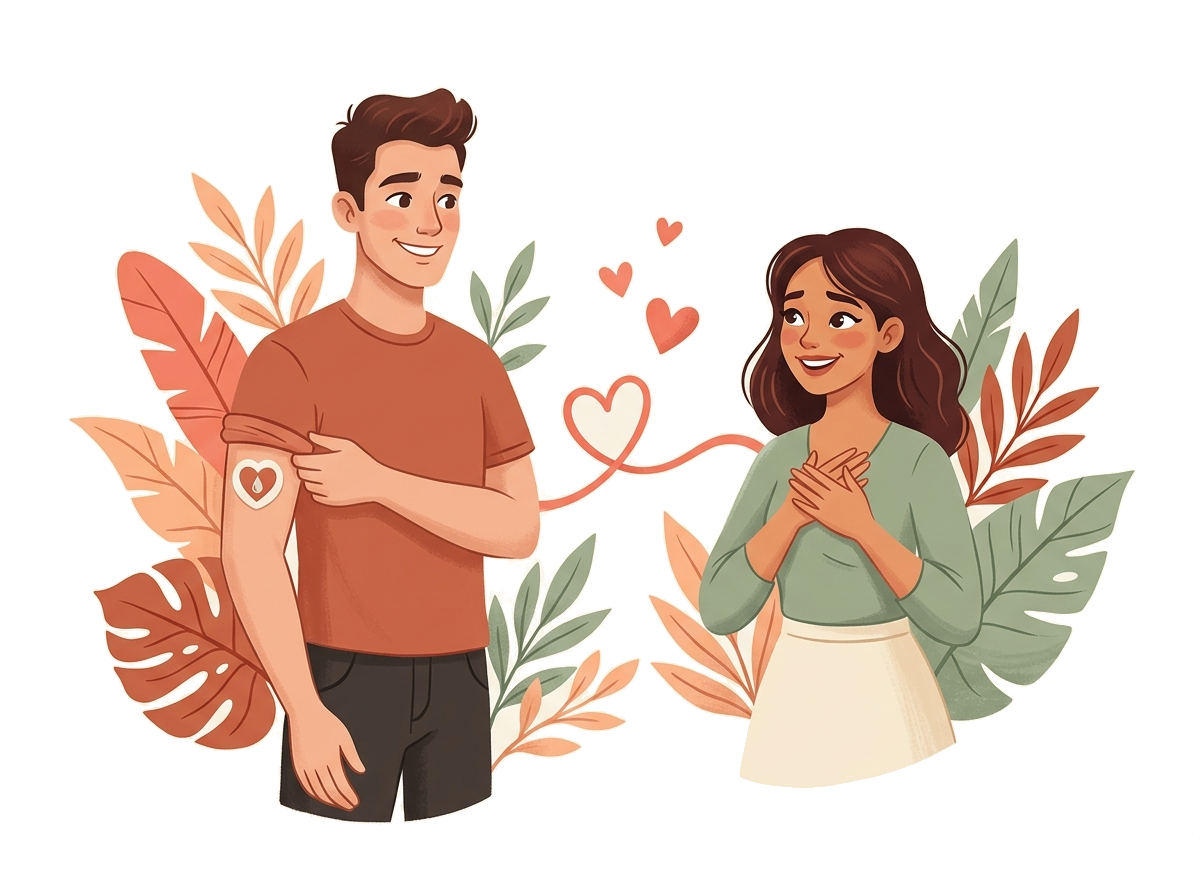
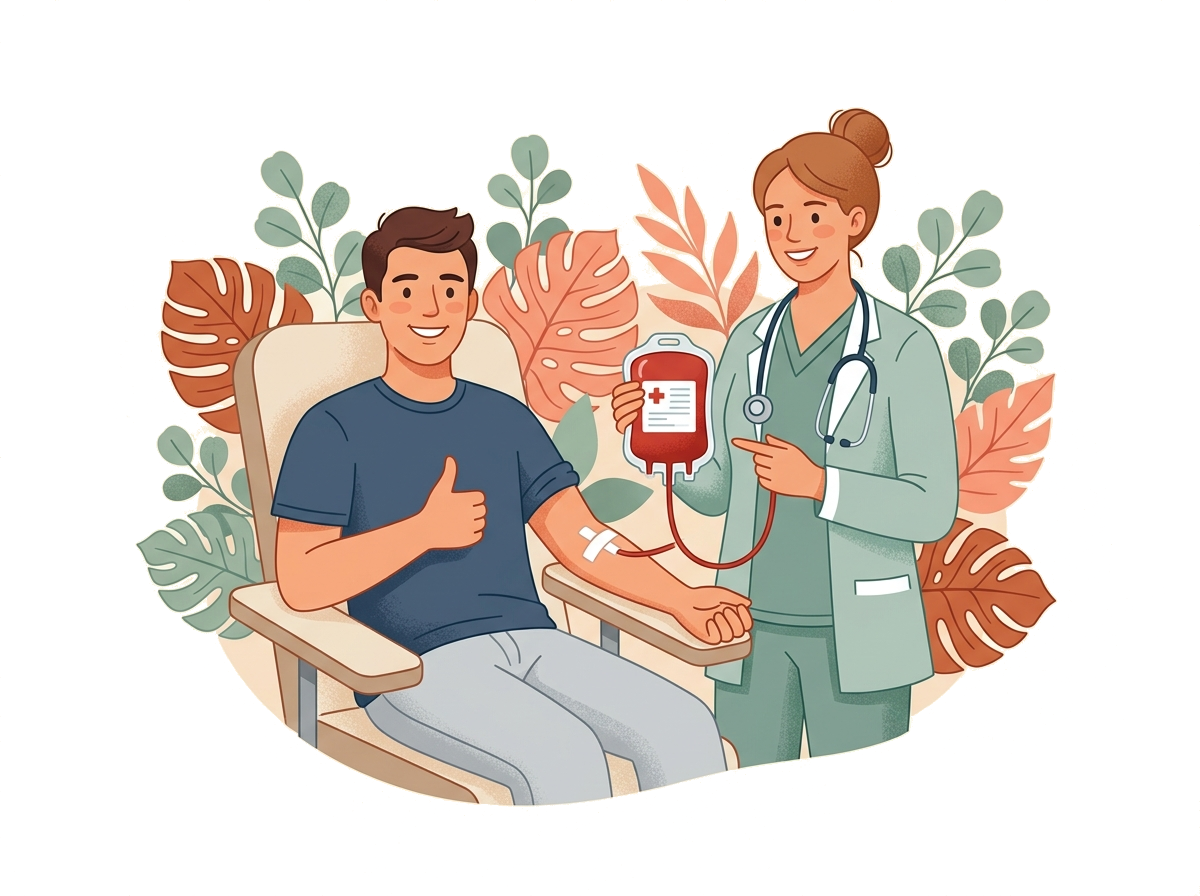
feat(ui): update hero illustration to medical blood donation scene with transparent alpha mask

diff --git a/client/src/App.jsx b/client/src/App.jsx
@@ -227,8 +227,8 @@ export default function App() {
         {/* Floating Editorial Character Illustration (NO borders, NO boxes!) */}
         <div className="hero-illustration-area">
           <img 
-            src="/editorial_donation_characters.png" 
-            alt="Editorial illustration of smiling voluntary blood donor and grateful recipient connected by a heart of hope" 
+            src="/editorial_donation_characters.png?v=2" 
+            alt="Editorial illustration of smiling voluntary blood donor giving thumbs-up with caring nurse holding blood donation pack" 
             className="floating-characters-art"
           />
         </div>
